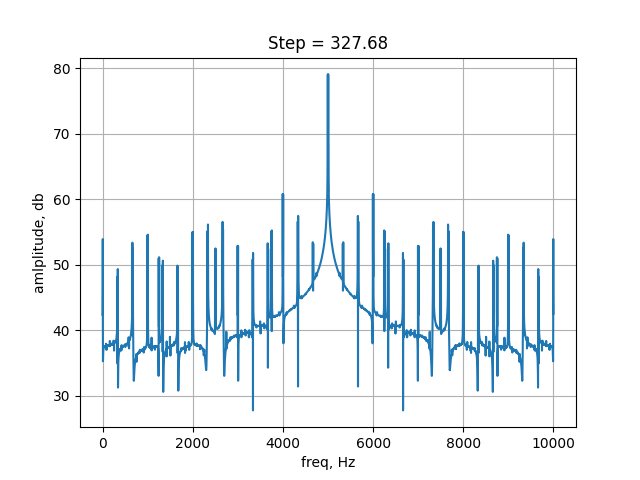
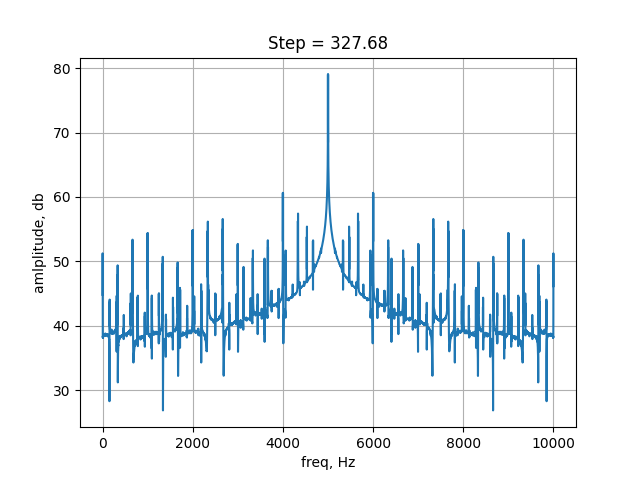
fixed diether

Changed region(s): [[0.0625, 0.4062, 0.9062, 0.8438], [0.0938, 0.25, 0.9062, 0.2812], [0.0625, 0.6562, 0.125, 0.7188]]

diff --git a/Lab3/NCO/fourier.py b/Lab3/NCO/fourier.py
@@ -2,8 +2,8 @@ import numpy as np
 import matplotlib.pyplot as plt
 
 desired_freq = np.array([5000, 10000, 15000]) #desired frequencies in Hz
-sampling_freq = 1000000 #Hz
-n = 16
+sampling_freq = 10000 #Hz
+n = 8
 step = 2**n * desired_freq / sampling_freq
 
 sin1 = np.load('/home/roman/Documents/fpga/Lab3/NCO/sin1.npy')
@@ -11,10 +11,10 @@ sin2 = np.load('/home/roman/Documents/fpga/Lab3/NCO/sin2.npy')
 sin3 = np.load('/home/roman/Documents/fpga/Lab3/NCO/sin3.npy')
 
 plt.figure(1)
-plt.plot(sin1[0:1000])
-plt.plot(sin2[0:1000])
-plt.plot(sin3[0:1000])
-plt.savefig(f'/home/roman/Documents/fpga/Lab3/NCO/img/sin.png')
+plt.plot(sin1[0:3000])
+plt.plot(sin2[0:3000])
+plt.plot(sin3[0:3000])
+plt.savefig(f'/home/roman/Documents/fpga/Lab3/NCO/img/sin2.png')
 
 spectre = np.fft.fftshift(np.fft.fft(sin1))
 amplitude = np.abs(spectre)
@@ -29,7 +29,7 @@ plt.title(f'Step = {step[0]}')
 plt.xlabel('freq, Hz')
 plt.ylabel('amlplitude, db')
 plt.grid('on')
-plt.savefig(f'/home/roman/Documents/fpga/Lab3/NCO/img/sin_step{step[0]}dither.png')
+plt.savefig(f'/home/roman/Documents/fpga/Lab3/NCO/img/sin_step{step[0]}.png')
 plt.show()
 
 spectre = np.fft.fftshift(np.fft.fft(sin2))
@@ -45,7 +45,7 @@ plt.title(f'Step = {step[1]}')
 plt.xlabel('freq, Hz')
 plt.ylabel('amlplitude, db')
 plt.grid('on')
-plt.savefig(f'/home/roman/Documents/fpga/Lab3/NCO/img/sin_step{step[1]}dither.png')
+plt.savefig(f'/home/roman/Documents/fpga/Lab3/NCO/img/sin_step{step[1]}.png')
 plt.show()
 
 spectre = np.fft.fftshift(np.fft.fft(sin3))
@@ -61,5 +61,5 @@ plt.title(f'Step = {step[2]}')
 plt.xlabel('freq, Hz')
 plt.ylabel('amlplitude, db')
 plt.grid('on')
-plt.savefig(f'/home/roman/Documents/fpga/Lab3/NCO/img/sin_step{step[2]}dither.png')
+plt.savefig(f'/home/roman/Documents/fpga/Lab3/NCO/img/sin_step{step[2]}.png')
 plt.show()

diff --git a/Lab3/NCO/nco_tb.py b/Lab3/NCO/nco_tb.py
@@ -4,8 +4,8 @@ from cocotb.triggers import FallingEdge, Timer
 from cocotb.clock import Clock
 
 desired_freq = np.array([500, 1000, 1500]) #desired frequencies in Hz
-sampling_freq = 1000000 #Hz
-n = 16
+sampling_freq = 10000 #Hz
+n = 8
 step = 2**n * desired_freq / sampling_freq
 print(step)
 

diff --git a/Lab3/README.md b/Lab3/README.md
@@ -143,12 +143,12 @@ endmodule
 
 Результаты с выключенным dithering
 ![](./NCO/img/sin2.png)
-![](./NCO/img/sin_step327.68.png)
-![](./NCO/img/sin_step655.36.png)
-![](./NCO/img/sin_step983.04.png)
+![](./NCO/img/sin_step128.0.png)
+![](./NCO/img/sin_step256.0.png)
+![](./NCO/img/sin_step384.0.png)
 
 Результаты с включенным dithering
 ![](./NCO/img/sin.png)
-![](./NCO/img/sin_step327.68dither.png)
-![](./NCO/img/sin_step655.36dither.png)
-![](./NCO/img/sin_step983.04dither.png)
+![](./NCO/img/sin_step128.0dither.png)
+![](./NCO/img/sin_step256.0dither.png)
+![](./NCO/img/sin_step384.0dither.png)
